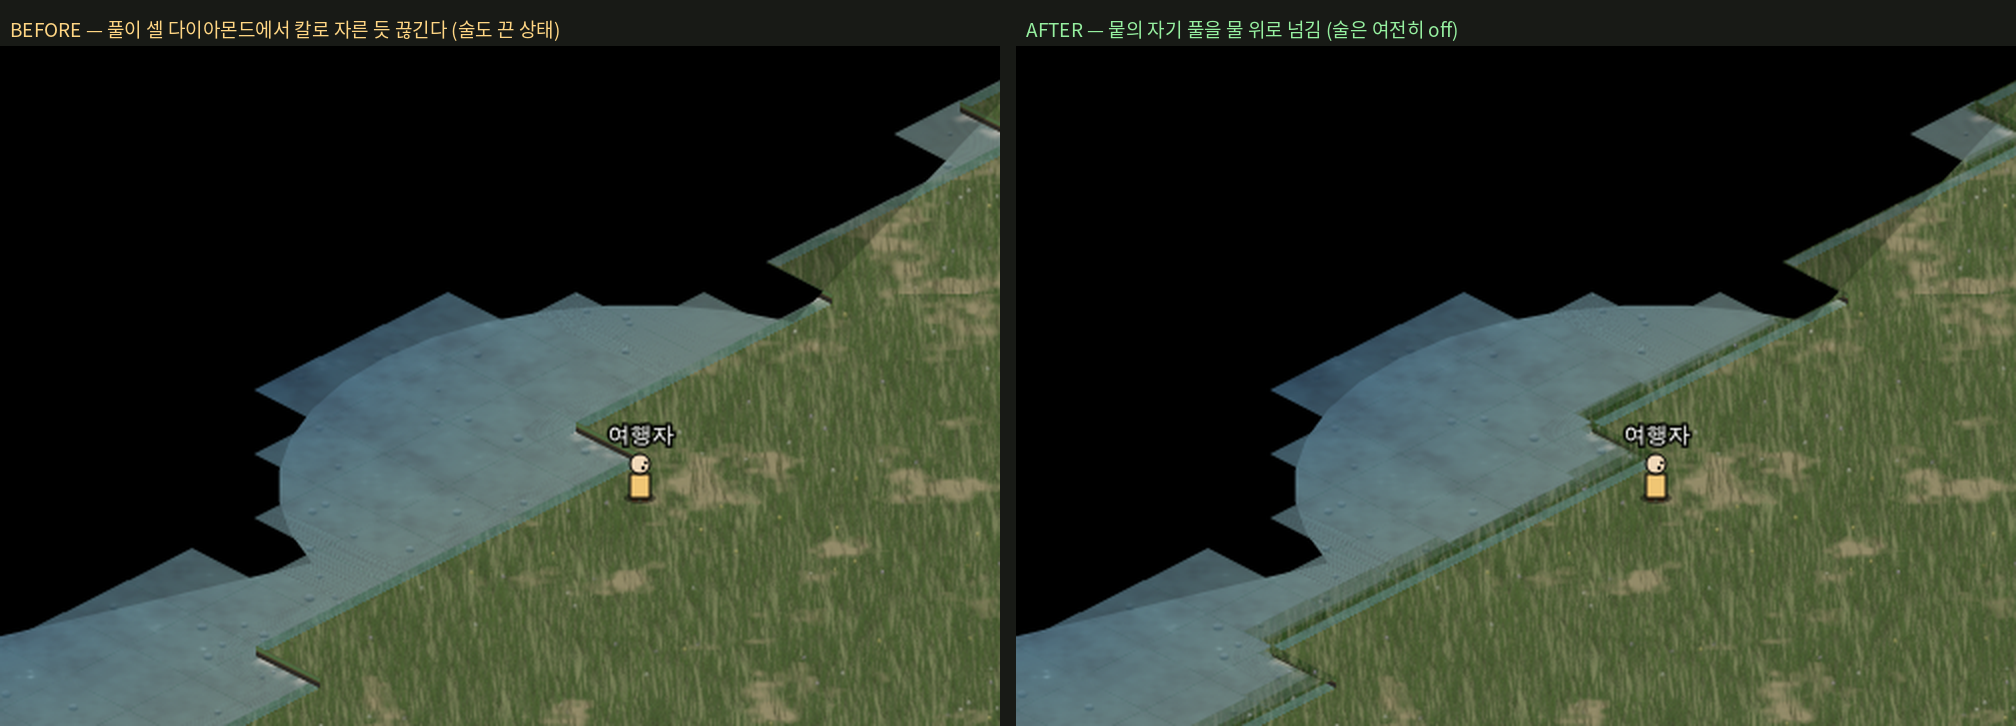
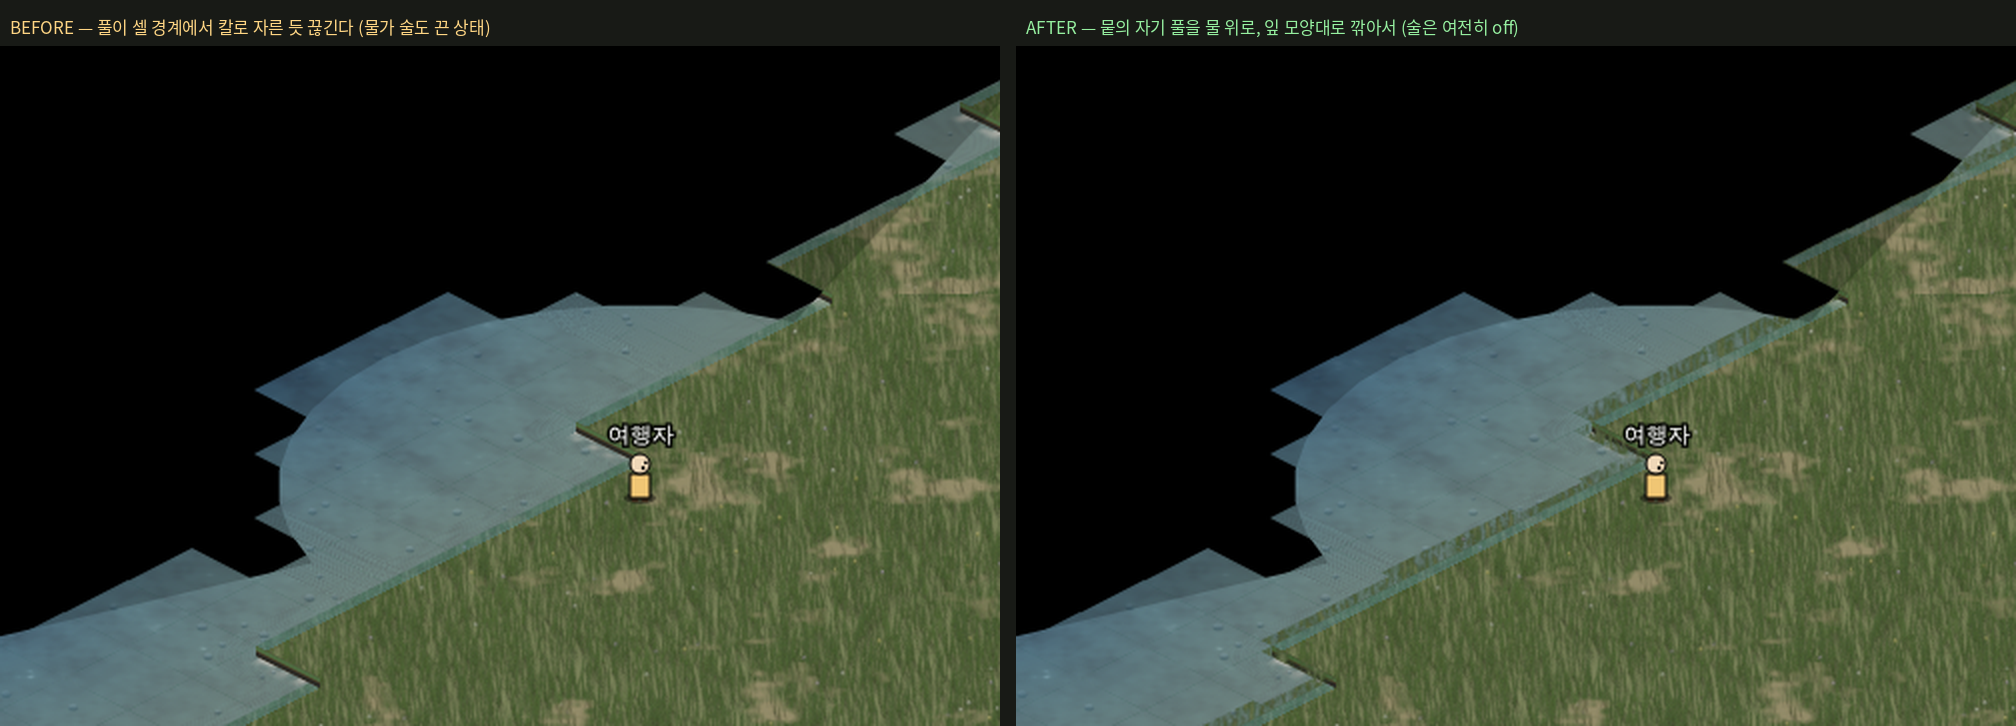
배치 21 (7차) — 물가 풀 넘김 수리: "어색한 띠" 제거 [재민 반려 2회 → 3패스에 채택]
재민: "물가에 어색한 띠? 같은 게 왜 생긴 거야..? 너무 부자연스럽잖아.."
맞다. 6차 커밋이 만든 내 결함이다. 두 번 틀리고 세 번째에 맞췄다.

■ 1패스(6차 커밋) — 반투명 3층(α .30/.55/.85)을 셀 다이아몬드째 밀어 깔았다  → 틀림
  ⓐ **반투명 초록을 밝은 물 위에 얹으면 풀이 아니라 뿌연 안개 띠**가 된다. 잎이 아니라 색이 번진다.
  ⓑ 셀 다이아몬드를 통째로 미니 **한 셀의 변 전체가 같은 폭**으로 나간다 = 정의상 띠다.
     자리 해시로 흩은 건 '길이'였지 '실루엣'이 아니었다 — 직선 가장자리는 그대로 남았다.

■ 2패스 — 불투명하게 깔고 합성 얼룩(2px 격자 해시)으로 바깥을 갉았다  → 또 틀림
  띠는 없앴는데 이번엔 **디더 격자 무늬**가 보인다. 규칙적으로 반복되는 마스크는
  무엇을 해도 '무늬'로 읽힌다.

■ 3패스(채택) — **풀 텍스처 자신의 잎 모양으로 깎는다**
  `grass_angled` 에서 **잎 알파**를 만든다(휘도 **중앙값** 기준 — 문턱을 고정하지 않아 텍스처를
  갈아도 따라온다). 어두운 곳(잎 사이 틈)을 파내고 밝은 곳(잎)만 남기면 실루엣이
  **진짜 잎 끝**을 따라간다. 끝쪽은 마스크 100%(잎만), 안쪽은 50%(성글게).
  `translate` 로 밀어 **텍스처째** 움직인다 — 그래야 풀과 마스크가 정합된다.
  넘김은 최대 7px(`SH_PUSH`). **길수록 띠가 된다** — 이건 실측이다.

■ 회귀: e2e-terrain **27/0** · e2e-nature **43/0** (순차 단독, 최종 트리).
■ 증거: 증거_배치21/물가풀넘김_전후.png + 물가풀넘김_확대_전후.png (픽셀 확대)
  둘 다 **물가 술을 끈 상태**의 순수 A/B — 갈대에 기대지 않았다는 증거다.
■ 회부: 더 손보려면 길이(7px)가 아니라 **잎 마스크 문턱 폭**(현재 26)을 만지는 쪽이 맞다.

Claude-Session: https://claude.ai/code/session_01Ew1DaTqPt5J15dt4jffG3G

diff --git a/public/client.js b/public/client.js
@@ -607,7 +607,42 @@ const SIM_JOB_EMOJI = {
   //   ★층 3장(길이 다른 잎)으로 알파를 떨어뜨리고 자리 해시로 길이를 흩어 **가장자리를 너덜하게** 한다.
   //     한 겹 균일 띠로 그리면 물가에 초록 테이프를 붙인 것처럼 보인다.
   //   ★순서: 물 셰이더 → 프리즘 단면 → **여기(넘김)** → 물가 술 → 안개.
-  const SH_LAYERS = [[10, 0.30], [6, 0.55], [3, 0.85]];   // [넘김 px, 알파] — 길수록 성기게
+  //   ★1패스 실패 — 재민: "물가에 어색한 띠 같은 게 왜 생긴 거야.. 너무 부자연스럽잖아."
+  //     맞다. 두 가지가 겹친 내 잘못이다:
+  //       ⓐ **반투명으로 깔았다**(알파 .30/.55/.85). 반투명 초록을 밝은 물 위에 얹으면
+  //          풀이 아니라 **뿌연 안개 띠**가 된다 — 잎이 아니라 색이 번진 것처럼 보인다.
+  //       ⓑ **셀 다이아몬드를 통째로 밀었다.** 한 셀의 변 전체가 같은 폭으로 나가니
+  //          결과가 **일정한 폭의 띠**다. 실루엣이 직선이면 뭘 해도 띠로 읽힌다.
+  //     ⇒ 고침: **불투명하게** 깔고(잎이 있는 곳은 진짜 풀색), 바깥쪽을 **얼룩 마스크로 갉아**
+  //       실루엣을 잎 단위로 부순다. 넘김 길이도 짧게(최대 7px) — 길수록 띠가 된다.
+  const SH_PUSH = 7;               // 최대 넘김(px). 길면 '물 위에 뜬 풀'이 되고 띠로 읽힌다
+  //     ★2패스도 실패했다 — 합성 얼룩(2px 격자 해시)으로 깎았더니 이번엔 **디더 격자 무늬**가 보였다.
+  //       규칙적으로 반복되는 마스크는 무엇을 해도 '무늬'로 읽힌다.
+  //     ⇒ 3패스: **풀 텍스처 자신의 잎 모양으로 깎는다.** 어두운 곳(잎 사이 틈)을 파내고
+  //       밝은 곳(잎)만 남기면 실루엣이 **진짜 잎 끝**을 따라간다. 마스크는 풀과 **정합**돼야
+  //       하므로 같은 변환 아래에서 같은 다이아몬드로 칠한다(translate 로 함께 민다).
+  let _shMask = null;
+  function _shBladeMask() {
+    if (_shMask) return _shMask;
+    const src = GTEX.grass_angled;
+    const w = src.naturalWidth || src.width, h = src.naturalHeight || src.height;
+    const t = document.createElement('canvas'); t.width = w; t.height = h;
+    const tg = t.getContext('2d', { willReadFrequently: true });
+    tg.drawImage(src, 0, 0);
+    const im = tg.getImageData(0, 0, w, h), d = im.data;
+    // 중앙값 근처를 문턱으로 — 텍스처가 바뀌어도 따라간다(고정 문턱은 텍스처 교체에 깨진다)
+    let sum = 0;
+    for (let i = 0; i < d.length; i += 4) sum += d[i] * 0.3 + d[i + 1] * 0.59 + d[i + 2] * 0.11;
+    const mid = sum / (d.length / 4);
+    for (let i = 0; i < d.length; i += 4) {
+      const lum = d[i] * 0.3 + d[i + 1] * 0.59 + d[i + 2] * 0.11;
+      // 어두울수록 많이 파낸다(잎 사이 틈) · 밝으면 남긴다(잎)
+      let a = (mid + 6 - lum) / 26; a = a < 0 ? 0 : a > 1 ? 1 : a;
+      d[i] = d[i + 1] = d[i + 2] = 0; d[i + 3] = Math.round(a * 255);
+    }
+    tg.putImageData(im, 0, 0);
+    _shMask = t; return t;
+  }
   const _shoreTiles = new Map();
   function _bakeShoreTile(itx, ity, zlist) {
     const X0 = itx * GT_W, Y0 = ity * GT_H;
@@ -619,7 +654,7 @@ const SIM_JOB_EMOJI = {
     }
     const c0x = Math.floor(mnx / 32) - 1, c1x = Math.ceil(mxx / 32) + 1;
     const c0y = Math.floor(mny / 32) - 1, c1y = Math.ceil(mxy / 32) + 1;
-    let cv = null, g = null, pat = null, n = 0;
+    let cv = null, g = null, pat = null, spat = null, n = 0;
     const dia = (gg, sx, sy) => { gg.beginPath(); gg.moveTo(sx, sy - 16); gg.lineTo(sx + 32, sy); gg.lineTo(sx, sy + 16); gg.lineTo(sx - 32, sy); gg.closePath(); };
     for (let cx = c0x; cx <= c1x; cx++) for (let cy = c0y; cy <= c1y; cy++) {
       const cxw = cx * 32 + 16, cyw = cy * 32 + 16;
@@ -627,25 +662,29 @@ const SIM_JOB_EMOJI = {
       if (sx < -46 || sx > GT_W + 46 || sy < -26 || sy > GT_H + 26) continue;
       if (!isWaterAtAbs(cxw, cyw)) continue;                 // 넘김은 **물 셀 안에만** 그린다
       for (let k = 0; k < 4; k++) {
-        const nx = [1, -1, 0, 0][k], ny = [0, 0, 1, -1][k];  // 이웃 뭍 → 이 물 셀 쪽으로 넘긴다
+        const nx = [1, -1, 0, 0][k], ny = [0, 0, 1, -1][k];
         const lxw = cxw - nx * 32, lyw = cyw - ny * 32;
         if (isWaterAtAbs(lxw, lyw) || isRockAtAbs(lxw, lyw)) continue;
         if (!cv) {
           cv = document.createElement('canvas'); cv.width = GT_W; cv.height = GT_H;
           g = cv.getContext('2d');
           pat = g.createPattern(GTEX.grass_angled, 'repeat');   // 타일 원점이 주기의 배수 → 오프셋 0
+          spat = g.createPattern(_shBladeMask(), 'repeat');      // 풀과 **정합**되는 잎 마스크
         }
         const lsx = (lxw - lyw) - X0, lsy = (lxw + lyw) / 2 - Y0;
-        for (let L = 0; L < SH_LAYERS.length; L++) {
-          const jit = 0.55 + 0.9 * _cellHash(cx, cy, 3100 + k * 7 + L);   // 자리별 잎 길이 — 너덜한 가장자리
-          const d = SH_LAYERS[L][0] * jit;
-          const ox = (nx * d) - (ny * d), oy = ((nx * d) + (ny * d)) / 2;  // 월드→iso
-          g.save(); dia(g, sx, sy); g.clip();                              // 물 셀 안으로만
-          g.globalAlpha = SH_LAYERS[L][1] * (0.82 + 0.32 * _cellHash(cx, cy, 3200 + k + L));
-          g.fillStyle = pat;
-          dia(g, lsx + ox, lsy + oy); g.fill();                            // 뭍 셀의 '자기 풀'을 밀어 넣는다
-          g.restore();
-        }
+        const d = SH_PUSH * (0.6 + 0.8 * _cellHash(cx, cy, 3100 + k));   // 자리별 길이 — 폭이 일정하면 띠다
+        const ox = (nx * d) - (ny * d), oy = ((nx * d) + (ny * d)) / 2;
+        g.save();
+        dia(g, sx, sy); g.clip();                       // 물 셀 안으로만
+        g.translate(ox, oy);                            // ★뭍의 풀을 **텍스처째** 민다(마스크와 정합)
+        g.globalAlpha = 1;                              // ★불투명 — 반투명은 풀이 아니라 안개가 된다
+        g.fillStyle = pat; dia(g, lsx, lsy); g.fill();
+        // 잎 사이 틈을 파낸다 — 실루엣이 진짜 잎 끝을 따라간다(합성 얼룩은 격자 무늬가 된다)
+        g.globalCompositeOperation = 'destination-out';
+        g.fillStyle = spat;
+        g.globalAlpha = 1;   dia(g, lsx + ox * 0.55, lsy + oy * 0.55); g.fill();  // 끝쪽 — 잎만 남는다
+        g.globalAlpha = 0.5; dia(g, lsx, lsy); g.fill();                          // 안쪽 — 절반만 성글게
+        g.restore();
         n++;
       }
     }

diff --git a/보고_배치21_자연물.md b/보고_배치21_자연물.md
@@ -397,12 +397,19 @@ cutaway 15 · rooms 55 · nature 43 · terrain 27 · metallurgy 20 · village 32
 풀 텍스처(`grass_angled`)는 **이미 게임 카메라 각도로 구워져** 있어 잎이 제대로 누워 있다 —
 할 일은 그 잎을 **셀 경계에서 자르지 않는 것**뿐이다.
 
-### 실장 — `_bakeShoreTile`
+### 실장 — `_bakeShoreTile`. ★**세 번 만에 맞췄다**(두 번은 재민이 눈으로 반려)
 
-- 물 셀마다, 이웃한 **뭍 셀의 다이아몬드를 물 쪽으로 d px 밀어** 물 셀 안으로 클립해 채운다.
-  채우는 재료는 **그 뭍의 자기 풀 패턴**이다(타일 원점이 주기의 배수라 이음새 0).
-- **층 3장**(넘김 10 / 6 / 3 px · 알파 0.30 / 0.55 / 0.85) — 길이가 다른 잎이 겹쳐 자연스러운 감쇠.
-- 길이·알파를 **자리 해시로 흩어** 가장자리를 너덜하게 만든다(한 겹 균일 띠는 초록 테이프가 된다).
+| 패스 | 무엇을 했나 | 왜 틀렸나 |
+|---|---|---|
+| 1 | 반투명 3층(α .30/.55/.85)을 셀 다이아몬드째 밀어 깔았다 | 재민: *"물가에 어색한 띠… 너무 부자연스럽잖아."* **반투명 초록을 밝은 물 위에 얹으면 풀이 아니라 뿌연 안개 띠**가 된다. 게다가 다이아몬드를 통째로 미니 **한 셀 변 전체가 같은 폭** = 띠 |
+| 2 | 불투명하게 깔고 **합성 얼룩(2px 격자 해시)** 으로 바깥을 갉았다 | 띠는 없앴는데 **디더 격자 무늬**가 보였다. 규칙적으로 반복되는 마스크는 무엇을 해도 '무늬'로 읽힌다 |
+| **3 (채택)** | 불투명 + **풀 텍스처 자신의 잎 모양으로 깎는다** | 어두운 곳(잎 사이 틈)을 파내고 밝은 곳(잎)만 남기니 실루엣이 **진짜 잎 끝**을 따라간다 |
+
+- 물 셀마다, 이웃 **뭍 셀 다이아몬드를 물 쪽으로 밀어**(최대 7px, 자리 해시로 ±) 물 셀 안에 클립.
+  `translate` 로 밀어 **텍스처째** 움직인다 — 그래야 마스크와 정합된다.
+- 마스크는 `grass_angled` 에서 만든 **잎 알파**(휘도 중앙값 기준 — 문턱을 고정하지 않아 텍스처를
+  갈아도 따라간다). 끝쪽은 마스크 100%(잎만 남음), 안쪽은 50%(성글게).
+- **길수록 띠가 된다** — 7px 을 넘기지 않는다.
 - 지면 타일과 **같은 격자·같은 캐시**(정적, `_shoreTiles`, 무효화 지점도 동일). 물 셀 없는 타일은 캔버스를 안 만든다.
 - 순서: 물 셰이더 → `_drawPrisms` → **넘김** → 물가 술 → 안개. 손잡이 `__terrain19.shoreOff`.
 
@@ -415,7 +422,7 @@ cutaway 15 · rooms 55 · nature 43 · terrain 27 · metallurgy 20 · village 32
 
 **회귀**: `e2e-terrain 27/0` · `e2e-nature 43/0`.
 
-증거: `증거_배치21/물가풀넘김_전후.png` (술을 끈 상태의 순수 A/B).
+증거: `증거_배치21/물가풀넘김_전후.png` · `물가풀넘김_확대_전후.png`(픽셀 확대) — 둘 다 **술을 끈 상태**의 순수 A/B.
 
 ---
 

diff --git a/다음세션_인계.md b/다음세션_인계.md
@@ -760,16 +760,21 @@ simvil R=10 · stair_cell R=1), 1칸짜리는 그 셀만. 모든 push 에 `wx/wy
 ★★**물가 풀 넘김**(재민 질문 "3D가 아니라서 못 고치나?" → **아니다**). 원인은 클리핑·순서였다:
 지면 베이크가 풀을 깔고 **물 셀을 진흙 다이아몬드로 덮어써** 잎이 셀 변에서 칼로 잘리고, 그 위에
 물이 또 덮는다. ⇒ `_bakeShoreTile` 신설 — **물 셀마다 이웃 뭍 다이아몬드를 물 쪽으로 d px 밀어**
-물 셀 안으로 클립해 **그 뭍의 자기 풀 패턴**으로 채운다. 층 3장(10/6/3px · α .30/.55/.85) +
-자리 해시로 길이·알파를 흩어 가장자리를 너덜하게. 지면 타일과 같은 격자·캐시·무효화 지점.
+물 셀 안으로 클립해 **그 뭍의 자기 풀 패턴**으로 채운다. ★**세 번 만에 맞췄다**(두 번은 재민이 눈으로 반려):
+①반투명 3층 → *"어색한 띠"* — 반투명 초록을 밝은 물에 얹으면 **뿌연 안개 띠**이고, 다이아몬드를
+통째로 미니 한 셀 변 전체가 **같은 폭**이라 띠다. ②불투명 + 합성 얼룩(2px 격자) → **디더 격자 무늬**.
+규칙 반복 마스크는 무조건 '무늬'로 읽힌다. ③채택 = **풀 텍스처 자신의 잎 모양으로 깎기** —
+`grass_angled` 휘도 중앙값으로 잎 알파를 만들어 틈을 파낸다(문턱 고정 안 함 → 텍스처 교체에 따라옴).
+`translate` 로 텍스처째 밀어 마스크와 정합. 넘김 최대 7px(길면 띠가 된다).
+지면 타일과 같은 격자·캐시·무효화 지점.
 순서: 물 → 프리즘 → **넘김** → 술 → 안개. 손잡이 `shoreOff`.
 **심는 게 아니다** — 갈대에 기대지 않고 술을 꺼도 경계가 부드럽다.
 실측: 강가 넘김 108조각·타일 15장, 수면 픽셀 90,902 → **87,354**(약 3,500px 을 풀이 덮음).
 `e2e-terrain` 격리 목록에 `shoreOff` 추가(§5-a 와 같은 이유, 기준 무변). terrain 27/0 · nature 43/0.
 
 ### 회부 (구현 안 함)
-- **넘김 세기 튜닝** — 지금 10/6/3px 은 **첫 값**이다. 더 길게(14px+) 하면 계단이 더 흐려지지만
-  물 위에 풀이 뜬 느낌이 날 수 있다. 재민 눈으로 한 번 보고 정하는 게 맞다.
+- **넘김 세기 튜닝** — `SH_PUSH` 7px 이 현재 값. **7 을 넘기면 다시 띠로 읽히기 시작한다**(실측).
+  더 자연스럽게 하려면 길이가 아니라 **잎 마스크의 문턱 폭**(현재 26)을 만지는 쪽이 맞다.
 - **계절**(낙엽·설경) — 시계 연동은 별개 시스템. 지금은 여름 한 벌.
 - **바람 흔들림 애니** — 정적 청크 캐시와 정면 충돌. 하려면 몇 프레임 굽고 자리 해시로 위상 흩기.
 - **다른 존 25곳 수종 차별화** — 사막·설원 미검증(배치 19 지면 질감 회부와 같은 자리).
